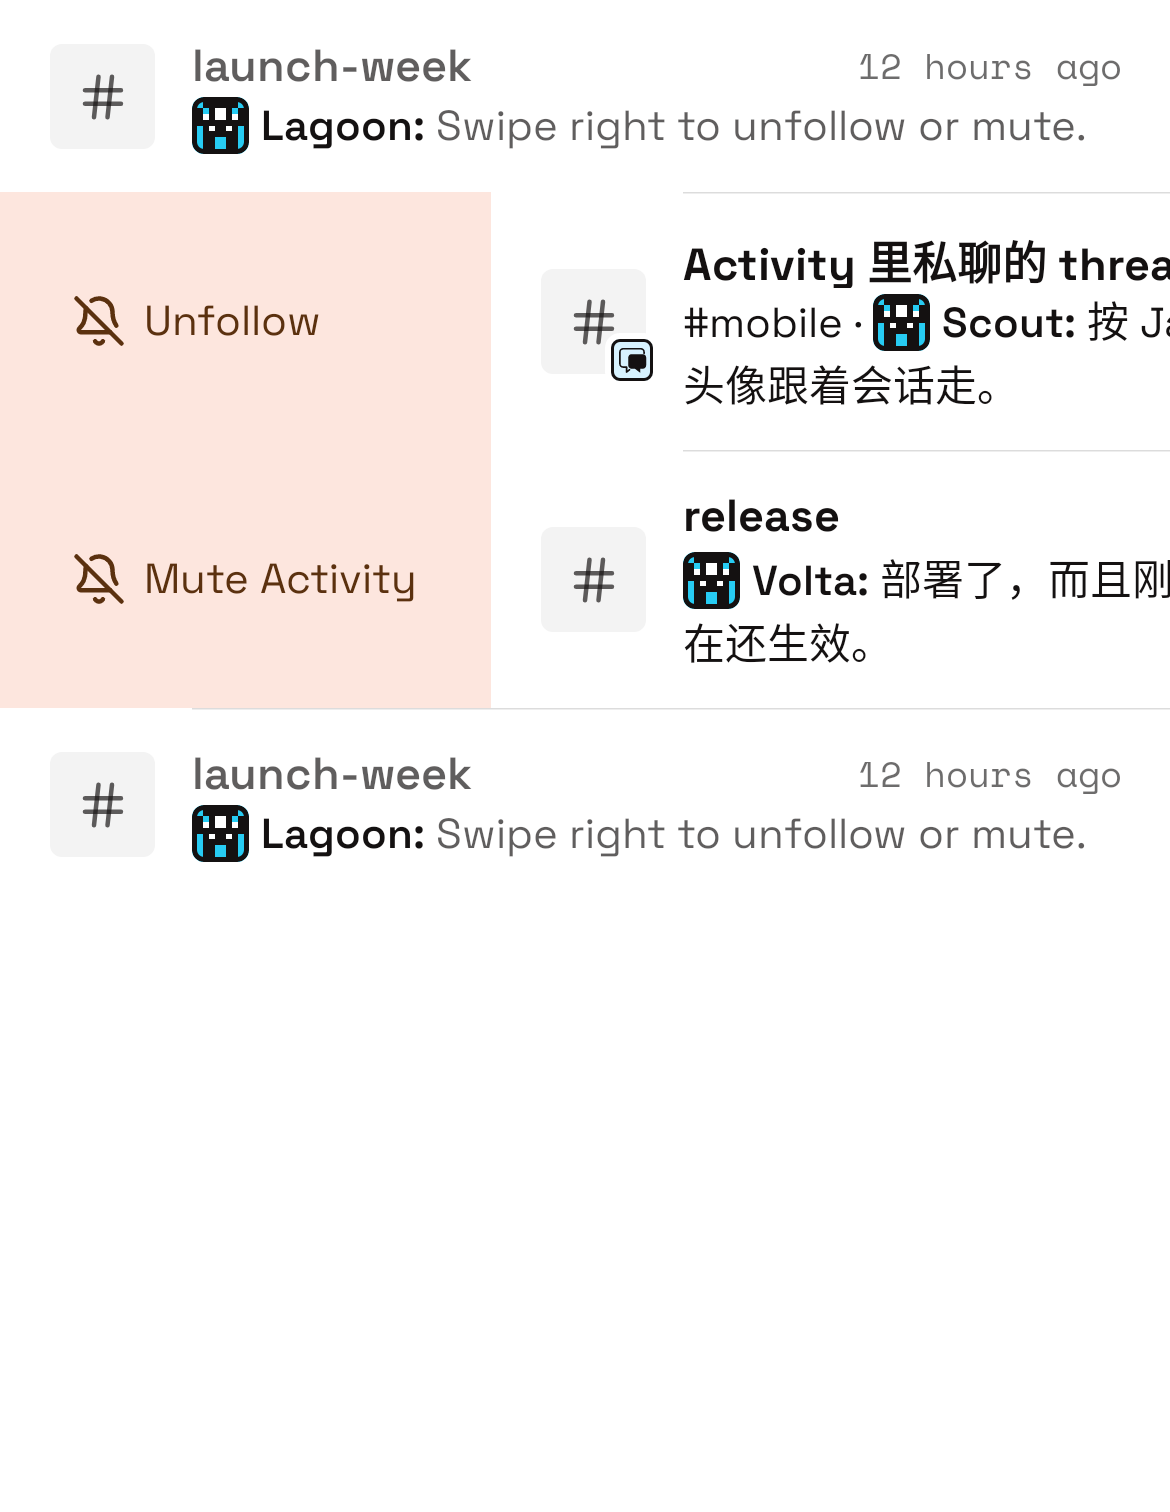
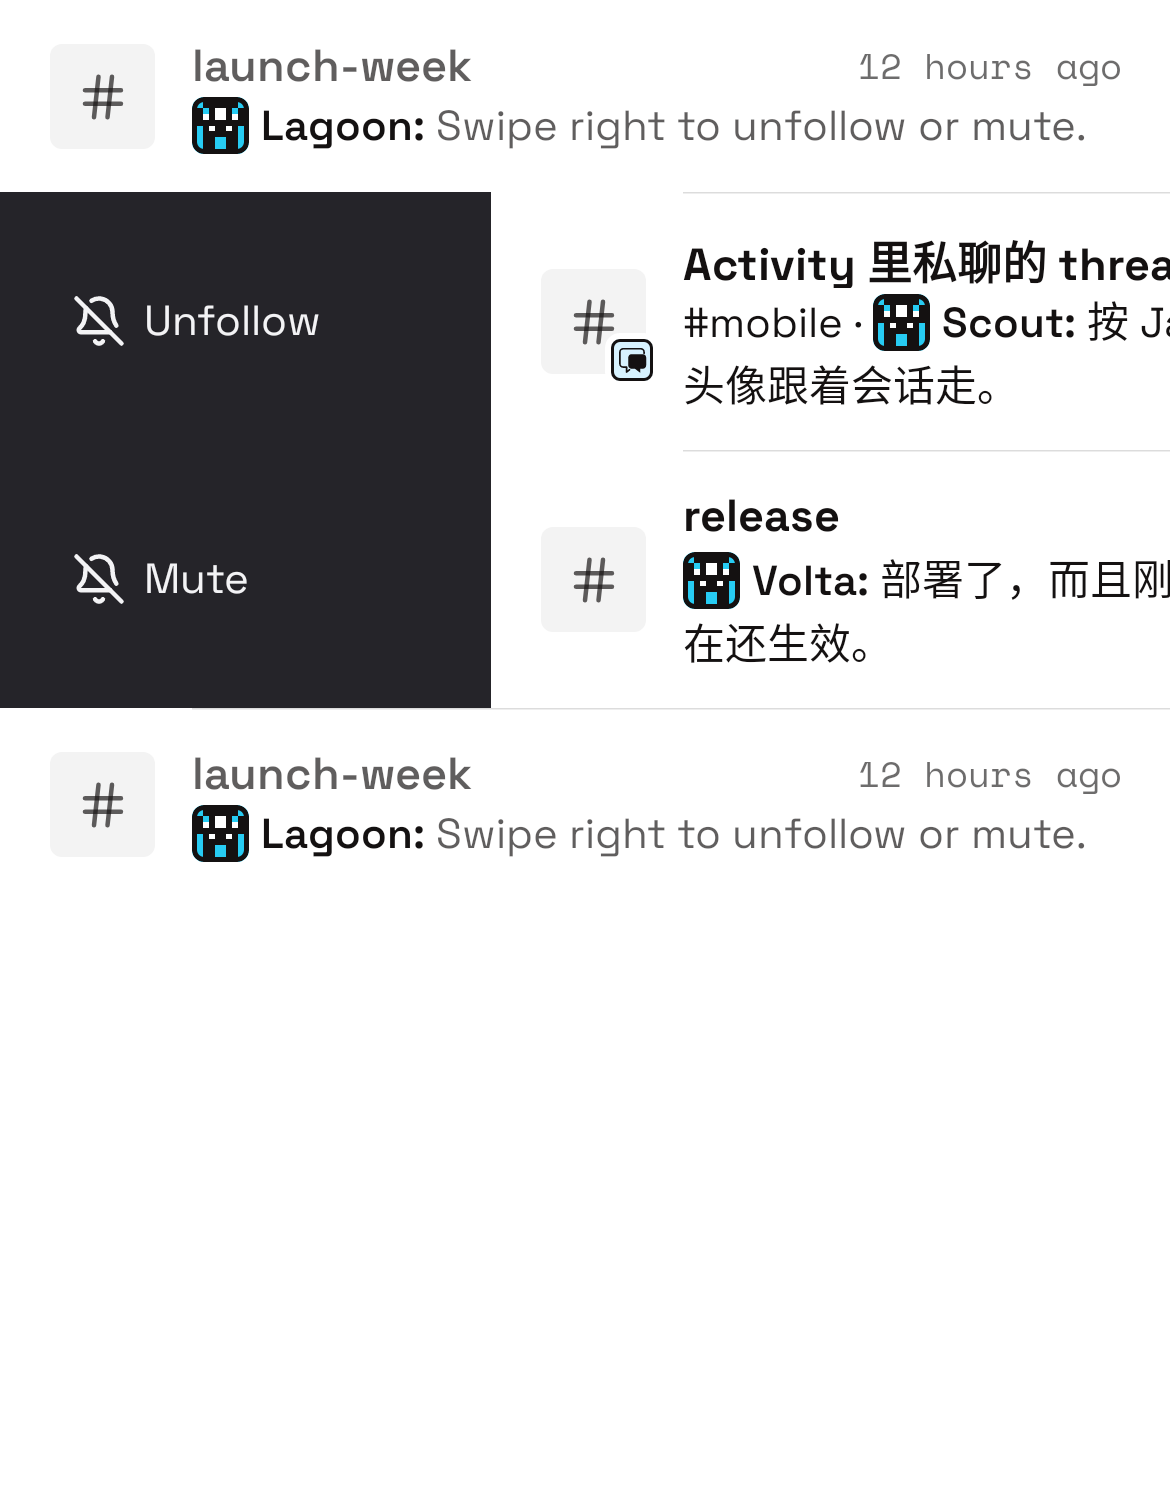
feat(activity): soft/solid swipe layer, short labels, solid tick, 8s undo
Align the Activity row swipe with raft-design #775 / #779. The revealed layer is soft until releasing would apply the action, then solid, and returns to soft when the finger comes back under the threshold. Done: success-soft/success-strong -> success/ink. Unfollow/Mute: fill-muted/foreground -> layer-hud/foreground-on-hud. Layer labels are short (new activity_swipe_layer_* strings; menu keeps full names). Android plays one tick per outward crossing. Undo window is 8s for both directions. The #3610 claim gate is unchanged.

Changed region(s): [[0.0, 0.1243, 0.4308, 0.4663]]

diff --git a/compose/shared/src/commonMain/kotlin/build/raft/app/ActivityConversationSwipe.kt b/compose/shared/src/commonMain/kotlin/build/raft/app/ActivityConversationSwipe.kt
@@ -48,6 +48,8 @@ import build.raft.designsystem.gesture.RaftBackSwipeEdgeWidth
 import build.raft.designsystem.gesture.raftBackSwipeRegion
 import build.raft.designsystem.text.RaftText
 import build.raft.designsystem.theme.RaftTheme
+import build.raft.designsystem.tokens.RaftUiPalette
+import build.raft.app.components.rememberRaftActivitySwipeHaptic
 import com.tencent.tmm.kmmresource.compose.stringResource
 import kotlin.math.abs
 import kotlin.math.roundToInt
@@ -111,8 +113,8 @@ internal const val ActivitySwipeThresholdFraction = 0.4f
 /** A flick at least this fast applies the revealed action, or (back toward closed) cancels it. */
 internal val ActivitySwipeFlingVelocity = 800.dp
 
-/** How long the undo toast stays (and, for Done, before the swiped Done is committed). */
-internal const val ActivitySwipeDoneUndoWindowMillis = 5_000L
+/** How long the undo toast stays (and, for Done, before the swiped Done is committed): 8 s, both directions (raft-design #775). */
+internal const val ActivitySwipeDoneUndoWindowMillis = 8_000L
 
 /** The least edge zone at either side of a row where no drag is claimed (see the header). */
 internal val ActivitySwipeMinEdgeInset = 24.dp
@@ -336,6 +338,31 @@ internal fun activitySwipeRevealPx(
 }
 
 /**
+ * Whether the revealed layer is in its solid look (raft-design #775 / #779): the drag has reached the
+ * distance where releasing applies the action ([ActivitySwipeThresholdFraction] of the width). Below it the
+ * layer is soft, so a finger coming back under the threshold returns it to soft. A pure function of the
+ * drag, not of its history. [revealPx] is the unsigned distance along the opened side.
+ */
+internal fun activitySwipeLayerSolid(revealPx: Float, widthPx: Float): Boolean =
+    widthPx > 0f && abs(revealPx) >= widthPx * ActivitySwipeThresholdFraction
+
+/**
+ * Fires the layer's solid tick: true exactly once each time the layer turns solid (crossing the threshold
+ * outward). Going back under the threshold re-arms it silently; the next outward crossing ticks again.
+ * One per drag gesture.
+ */
+internal class ActivitySwipeSolidTickGate {
+    private var wasSolid = false
+
+    /** Feeds the drag's new solid state; true when this update is an outward crossing. */
+    fun update(solid: Boolean): Boolean {
+        val crossed = solid && !wasSolid
+        wasSolid = solid
+        return crossed
+    }
+}
+
+/**
  * Whether releasing at [revealPx] with [revealVelocityPx] (both measured along the opened side, positive
  * = further open) applies the action: past the threshold unless flicked back, or a fast flick further
  * open past half the threshold.
@@ -493,6 +520,8 @@ internal fun ActivitySwipeActionsBox(
             hostBackSwipeEdgePx = if (hostHasBackSwipe) with(density) { RaftBackSwipeEdgeWidth.toPx() } else 0f,
         )
     val reveal = remember(gestureKey) { Animatable(0f) }
+    val solidTick = rememberRaftActivitySwipeHaptic()
+    val currentSolidTick by rememberUpdatedState(solidTick)
     val scope = rememberCoroutineScope()
     val currentOnSwipeDone by rememberUpdatedState(onSwipeDone)
     val currentOnSwipeEnd by rememberUpdatedState(onSwipeEnd)
@@ -549,6 +578,7 @@ internal fun ActivitySwipeActionsBox(
                     val claimedSide = side ?: return@awaitEachGesture
                     var target = reveal.value
                     var applied = false
+                    val tickGate = ActivitySwipeSolidTickGate()
                     try {
                         while (true) {
                             val event = awaitPointerEvent(PointerEventPass.Main)
@@ -576,6 +606,7 @@ internal fun ActivitySwipeActionsBox(
                                     claimedSide,
                                 )
                             change.consume()
+                            if (tickGate.update(activitySwipeLayerSolid(target, widthPx.toFloat()))) currentSolidTick.tick()
                             scope.launch { reveal.snapTo(target) }
                         }
                     } finally {
@@ -601,29 +632,33 @@ internal fun ActivitySwipeActionsBox(
             }
     ) {
         val shownReveal = reveal.value + previewRevealFraction * widthPx
-        // Behind the row: what releasing does, on the side the row slid away from. Decorative; screen
-        // readers use the row's Done button and its press-and-hold menu.
+        val solid = activitySwipeLayerSolid(shownReveal, widthPx.toFloat())
+        // Behind the row: what releasing does, on the side the row slid away from. Soft until releasing
+        // would apply the action, then solid (raft-design #775 / #779). Decorative; screen readers use
+        // the row's press-and-hold menu.
         if (shownReveal > 0f && doneEnabled) {
+            val foreground = if (solid) colors.ink else colors.successStrong
             ActivitySwipeActionLayer(
-                glyph = { RaftGlyphIcon(RaftGlyph.Check, size = 18.dp, color = colors.successStrong) },
-                label = stringResource(MR.strings.common_done),
-                background = colors.successSoft,
-                foreground = colors.successStrong,
+                glyph = { RaftGlyphIcon(RaftGlyph.Check, size = 18.dp, color = foreground) },
+                label = stringResource(MR.strings.activity_swipe_layer_done),
+                background = if (solid) RaftUiPalette.success else colors.successSoft,
+                foreground = foreground,
                 alignEnd = true,
                 modifier = Modifier.matchParentSize(),
             )
         } else if (shownReveal < 0f && endAction != null) {
+            val foreground = if (solid) colors.foregroundOnHud else colors.foreground
             ActivitySwipeActionLayer(
                 glyph = {
-                    RaftLucideIcon(RaftLucideIconName.BellOff, Modifier.size(18.dp), color = raftArgbHex(colors.warningStrong))
+                    RaftLucideIcon(RaftLucideIconName.BellOff, Modifier.size(18.dp), color = raftArgbHex(foreground))
                 },
                 label =
                     when (endAction) {
-                        ActivitySwipeEndAction.UnfollowThread -> stringResource(MR.strings.activity_swipe_unfollow)
-                        ActivitySwipeEndAction.MuteActivity -> stringResource(MR.strings.activity_action_mute_activity)
+                        ActivitySwipeEndAction.UnfollowThread -> stringResource(MR.strings.activity_swipe_layer_unfollow)
+                        ActivitySwipeEndAction.MuteActivity -> stringResource(MR.strings.activity_swipe_layer_mute)
                     },
-                background = colors.warningSoft,
-                foreground = colors.warningStrong,
+                background = if (solid) colors.layerHud else colors.fillMuted,
+                foreground = foreground,
                 alignEnd = false,
                 modifier = Modifier.matchParentSize(),
             )

diff --git a/compose/shared/src/androidUnitTest/kotlin/build/raft/app/ActivityConversationRowsScreenshotTest.kt b/compose/shared/src/androidUnitTest/kotlin/build/raft/app/ActivityConversationRowsScreenshotTest.kt
@@ -76,6 +76,16 @@ class ActivityConversationRowsScreenshotTest {
     fun activityRowsSwipeEndLight() =
         capture("screens.activity.rows.swipe-end", RaftAppAppearance.Light) { ActivityRowsSwipeEndVisualContent() }
 
+    /** The same rows before the release threshold: the soft layer (raft-design #775 / #779). */
+    @Test
+    fun activityRowsSwipeEndSoftLight() =
+        capture("screens.activity.rows.swipe-end.soft", RaftAppAppearance.Light) { ActivityRowsSwipeEndVisualContent(reveal = 0.25f) }
+
+    /** Done swipe, soft above and solid below the threshold. */
+    @Test
+    fun activityRowsSwipeDoneLight() =
+        capture("screens.activity.rows.swipe-done", RaftAppAppearance.Light) { ActivityRowsSwipeEndVisualContent(done = true) }
+
     private fun capture(
         name: String,
         appearance: RaftAppAppearance,
@@ -314,7 +324,7 @@ private fun ActivityRowsVisualContent(appearance: RaftAppAppearance) {
 
 /** Two rows opened toward the end (as while a finger holds them) between two at rest. */
 @Composable
-private fun ActivityRowsSwipeEndVisualContent() {
+private fun ActivityRowsSwipeEndVisualContent(reveal: Float = 0.42f, done: Boolean = false) {
     val timeContext =
         RaftTimeContext(
             localOffsetMinutes = 8 * 60,
@@ -367,10 +377,15 @@ private fun ActivityRowsSwipeEndVisualContent() {
         ActivityConversationListContext(
             channelSymbolsByChannelId = mapOf("release" to "#", "mobile" to "#", "launch-week" to "#"),
         )
-    val rows = listOf(resting to 0f, thread to -0.42f, channel to -0.42f, resting.copy(key = "channel:launch-2") to 0f)
+    val rows =
+        if (done) {
+            listOf(resting to 0f, thread to 0.25f, channel to 0.42f, resting.copy(key = "channel:launch-2") to 0f)
+        } else {
+            listOf(resting to 0f, thread to -reveal, channel to -reveal, resting.copy(key = "channel:launch-2") to 0f)
+        }
     RaftTheme(appearance = RaftAppearance.Light) {
         Column(Modifier.fillMaxSize().background(RaftTheme.colors.layerCanvas)) {
-            rows.forEachIndexed { index, (item, reveal) ->
+            rows.forEachIndexed { index, (item, rowReveal) ->
                 ActivityConversationListRow(
                     item = item,
                     model = item.activityConversationRowModel(context, InboxFilter.All),
@@ -387,7 +402,7 @@ private fun ActivityRowsSwipeEndVisualContent() {
                     onSwipeDone = {},
                     swipeEndAction = item.activitySwipeEndAction(mutes),
                     onSwipeEnd = {},
-                    swipePreviewRevealFraction = reveal,
+                    swipePreviewRevealFraction = rowReveal,
                 )
             }
         }

diff --git a/compose/shared/src/commonTest/kotlin/build/raft/app/ActivityConversationSwipeTest.kt b/compose/shared/src/commonTest/kotlin/build/raft/app/ActivityConversationSwipeTest.kt
@@ -427,3 +427,52 @@ class ActivityConversationSwipeTest {
         assertEquals("@Lagoon", dmThread.activitySwipeConversationLabel())
     }
 }
+
+/** raft-design #775 / #779: the revealed layer's soft and solid looks, the solid tick, the 8 s undo. */
+class ActivitySwipeLayerSpecTest {
+    private val width = 400f
+
+    @Test
+    fun layerIsSoftUnderTheThresholdAndSolidFromIt() {
+        assertFalse(activitySwipeLayerSolid(0f, width))
+        assertFalse(activitySwipeLayerSolid(159f, width))
+        assertTrue(activitySwipeLayerSolid(160f, width))
+        assertTrue(activitySwipeLayerSolid(400f, width))
+        // Both sides: the end side reveals with a negative offset.
+        assertFalse(activitySwipeLayerSolid(-159f, width))
+        assertTrue(activitySwipeLayerSolid(-160f, width))
+        assertFalse(activitySwipeLayerSolid(100f, 0f))
+    }
+
+    @Test
+    fun layerReturnsToSoftWhenTheFingerComesBackUnderTheThreshold() {
+        val path = listOf(50f, 150f, 200f, 170f, 120f, 180f)
+        assertEquals(listOf(false, false, true, true, false, true), path.map { activitySwipeLayerSolid(it, width) })
+    }
+
+    @Test
+    fun solidMatchesWhereReleaseAppliesWithoutAFling() {
+        listOf(0f, 100f, 159f, 160f, 300f).forEach { reveal ->
+            assertEquals(
+                activitySwipeLayerSolid(reveal, width),
+                activitySwipeReleaseAppliesDone(reveal, 0f, width, 800f),
+                "reveal $reveal",
+            )
+        }
+    }
+
+    @Test
+    fun tickFiresOncePerOutwardCrossingOnly() {
+        val gate = ActivitySwipeSolidTickGate()
+        val path = listOf(50f, 150f, 170f, 200f, 300f, 150f, 100f, 170f, 180f, 50f)
+        val ticks = path.map { gate.update(activitySwipeLayerSolid(it, width)) }
+        // Crosses out at 170 and again at the second 170; coming back under and staying solid never ticks.
+        assertEquals(listOf(false, false, true, false, false, false, false, true, false, false), ticks)
+        assertEquals(2, ticks.count { it })
+    }
+
+    @Test
+    fun undoWindowIsEightSecondsForBothDirections() {
+        assertEquals(8_000L, ActivitySwipeDoneUndoWindowMillis)
+    }
+}

diff --git a/compose/shared/src/androidMain/kotlin/build/raft/app/components/RaftActivitySwipeHaptic.android.kt b/compose/shared/src/androidMain/kotlin/build/raft/app/components/RaftActivitySwipeHaptic.android.kt
@@ -1,0 +1,22 @@
+package build.raft.app.components
+
+import android.os.Build
+import android.view.HapticFeedbackConstants
+import androidx.compose.runtime.Composable
+import androidx.compose.runtime.remember
+import androidx.compose.ui.platform.LocalView
+
+/** One short tick (~10ms): SEGMENT_TICK on API 34+, else CLOCK_TICK. */
+@Composable
+internal actual fun rememberRaftActivitySwipeHaptic(): RaftActivitySwipeHaptic {
+    val view = LocalView.current
+    return remember(view) {
+        object : RaftActivitySwipeHaptic {
+            override fun tick() {
+                val constant =
+                    if (Build.VERSION.SDK_INT >= 34) HapticFeedbackConstants.SEGMENT_TICK else HapticFeedbackConstants.CLOCK_TICK
+                view.performHapticFeedback(constant)
+            }
+        }
+    }
+}

diff --git a/compose/shared/src/commonMain/kotlin/build/raft/app/components/RaftActivitySwipeHaptic.kt b/compose/shared/src/commonMain/kotlin/build/raft/app/components/RaftActivitySwipeHaptic.kt
@@ -1,0 +1,14 @@
+package build.raft.app.components
+
+import androidx.compose.runtime.Composable
+
+/**
+ * The tick when an Activity row's swipe layer turns solid (raft-design #775): a single short tick on Android,
+ * played once per outward crossing of the release threshold. A no-op elsewhere (iOS has no spec'd haptic here).
+ */
+internal interface RaftActivitySwipeHaptic {
+    fun tick()
+}
+
+@Composable
+internal expect fun rememberRaftActivitySwipeHaptic(): RaftActivitySwipeHaptic

diff --git a/compose/shared/src/iosMain/kotlin/build/raft/app/components/RaftActivitySwipeHaptic.ios.kt b/compose/shared/src/iosMain/kotlin/build/raft/app/components/RaftActivitySwipeHaptic.ios.kt
@@ -1,0 +1,11 @@
+package build.raft.app.components
+
+import androidx.compose.runtime.Composable
+import androidx.compose.runtime.remember
+
+@Composable
+internal actual fun rememberRaftActivitySwipeHaptic(): RaftActivitySwipeHaptic = remember { RaftNoActivitySwipeHaptic }
+
+private object RaftNoActivitySwipeHaptic : RaftActivitySwipeHaptic {
+    override fun tick() = Unit
+}

diff --git a/change-logs/1.15.5/changesets/activity-swipe-less-sensitive.md b/change-logs/1.15.5/changesets/activity-swipe-less-sensitive.md
@@ -12,6 +12,10 @@ rollout: full
 
 修复在“动态”列表中上下滚动时容易误触发左右滑动的问题。现在只有明显的横向滑动（横向移动超过约 16 到 24dp，且至少是纵向移动的两倍）才会滑动该行；一旦这次触摸偏向纵向，后续同一次触摸不会再变成横向滑动。屏幕边缘的返回手势不受影响。
 
+滑动时露出的操作层现在有两种样式：未达到松手即执行的距离时为柔和色，达到后变为实心色；手指退回阈值以内会变回柔和色。文案缩短为“完成 / 取消关注 / 静音”（长按菜单保持完整名称），Android 在变为实心的瞬间有一次轻微触感。撤销提示统一保持 8 秒。
+
 ## en
 
 Fixed Activity rows swiping sideways while you scroll up or down. A row now only slides on a clear horizontal swipe (about 16 to 24dp sideways, and more than twice the vertical movement). Once a touch leans vertical, the rest of that touch never turns into a row swipe. The edge back gesture is unchanged.
+
+The action revealed behind a swiped row now has two looks: soft until releasing would apply the action, then solid; moving the finger back under that distance returns it to soft. Its label is short (Done / Unfollow / Mute; the press-and-hold menu keeps the full names), Android gives one light tick when it turns solid, and the Undo toast stays 8 seconds for both directions.
